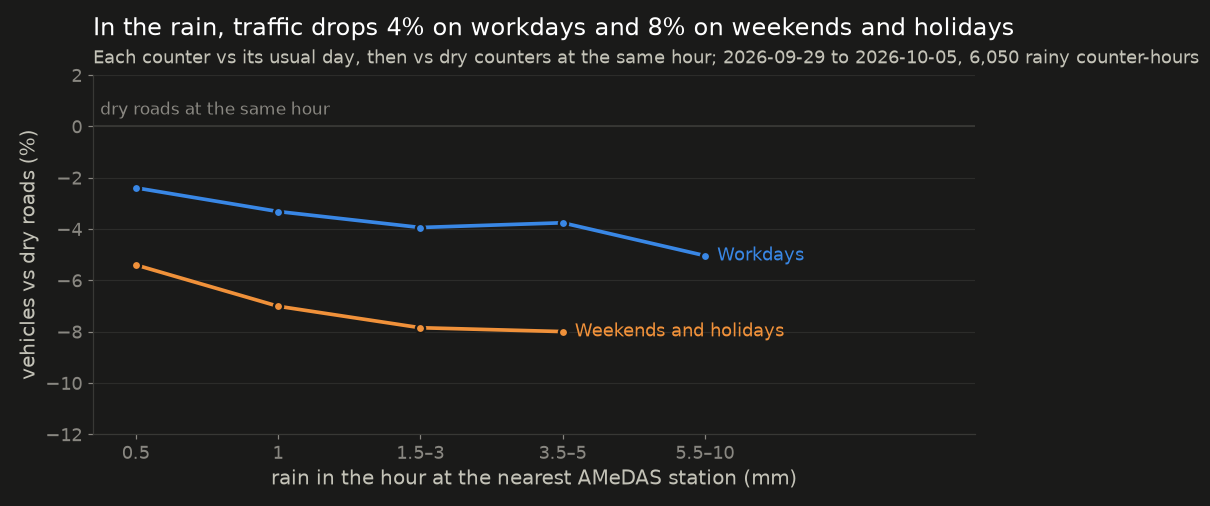
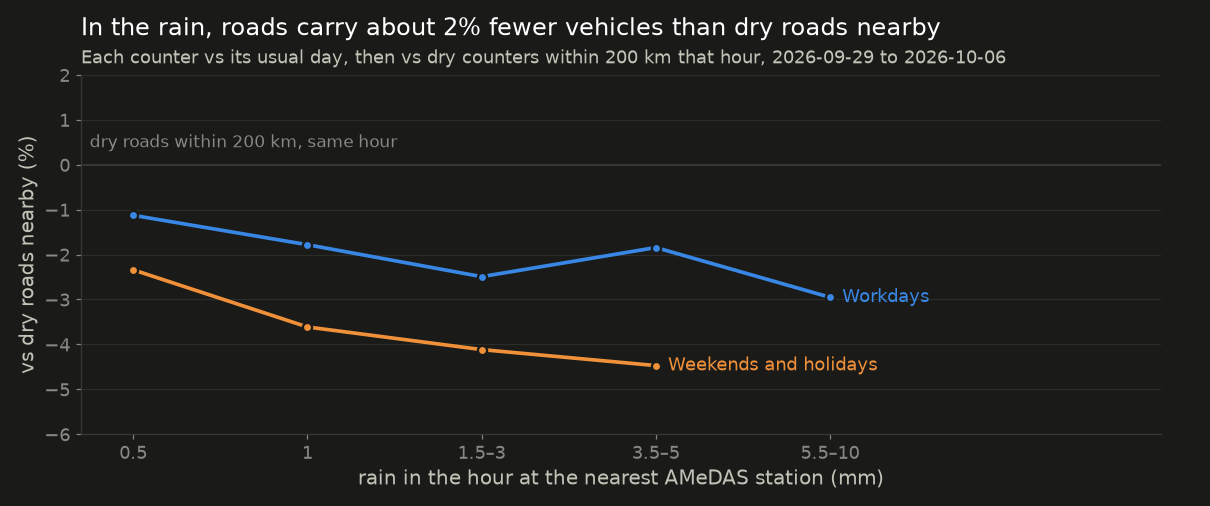
Rain: compare with dry roads nearby, not all of Japan
Review finding, checked: against a national dry median the rainy region's other differences that day
doubled the drop, and the weekend figure rests almost entirely on one Sunday (Oct 4). rel now uses
the dry counters within 200 km at the same hour: about 2.5% fewer vehicles in the rain (workdays 2.2%,
weekends 4.0% on 2 days). The title states only the pooled drop and the README says the weekend
difference is not established. publish.yml: a failed download only warns, so the monthly GIFs still
draw. Guards for an empty day, an all-empty line and the y range.

Claude-Session: https://claude.ai/code/session_01Q9mh2nKLEeW5VFF7pnBAXH

diff --git a/scripts/rain.py b/scripts/rain.py
@@ -8,9 +8,10 @@ Each permanent counter takes the rain of its nearest AMeDAS station within 10 km
 only values with the normal quality flag). A counter's hour is compared with its usual: the median of the same
 counter, hour and kind of day (workday, or weekend and holiday) over the days outside the holiday periods (at least
 five days, median at least 20 vehicles). Rain falls on some days more than others and on some regions more than
-others, so a rainy counter is compared with the dry counters of the same hour: rel = (vehicles / usual) / (median of
-vehicles / usual over the counters with no rain that hour). rel below 1 means fewer vehicles than the dry counters
-had at the same time.
+others, so a rainy counter is compared with the dry counters near it at the same hour: rel = (vehicles / usual) /
+(median of vehicles / usual over the counters with no rain within 200 km that hour, at least 10 of them). rel below 1
+means fewer vehicles than the dry roads nearby had at the same time. A national dry reference instead would mix in
+whatever the rainy region does differently that day (measured on the first week: it doubled the weekend drop).
 
   rain_effect_<theme>.png  median rel by the rain in the hour, workdays and weekends/holidays
   rain_day.gif             the day with the most rainy counter-hours: rain as blue light at the stations, counters
@@ -27,6 +28,8 @@ sys.path.insert(0, os.path.dirname(__file__))
 import animate, figures
 
 NEAR_KM = 10
+DRY_KM = 200         # dry counters this close to a rainy one form its reference
+MIN_DRY = 10
 WET = 1.0            # mm in the hour that counts as rain for the headline numbers
 MIN_HOURS = 100      # counter-hours a rain class needs to be drawn
 BINS = [(0.5, 0.5, "0.5"), (1.0, 1.0, "1"), (1.5, 3.0, "1.5–3"), (3.5, 5.0, "3.5–5"), (5.5, 10.0, "5.5–10"),
@@ -43,11 +46,31 @@ def usual(h):
     return u[(u["size"] >= 5) & (u["median"] >= 20)]["median"].rename("usual")
 
 
-def nearest(counters, stations):
-    la1, lo1 = np.radians(counters.latitude.values)[:, None], np.radians(counters.longitude.values)[:, None]
-    la2, lo2 = np.radians(stations.lat.values)[None, :], np.radians(stations.lon.values)[None, :]
+def km_matrix(lat1, lon1, lat2, lon2):
+    la1, lo1 = np.radians(np.asarray(lat1))[:, None], np.radians(np.asarray(lon1))[:, None]
+    la2, lo2 = np.radians(np.asarray(lat2))[None, :], np.radians(np.asarray(lon2))[None, :]
     a = np.sin((la2 - la1) / 2) ** 2 + np.cos(la1) * np.cos(la2) * np.sin((lo2 - lo1) / 2) ** 2
-    d = 6371 * 2 * np.arcsin(np.sqrt(a))
+    return 6371 * 2 * np.arcsin(np.sqrt(a))
+
+
+def local_rel(x):
+    """ratio of each counter-hour with rain ÷ the median ratio of the dry counters within DRY_KM that hour;
+    NaN for dry hours and where fewer than MIN_DRY dry counters are near"""
+    rel = pd.Series(np.nan, index=x.index)
+    for t, g in x.groupby("time_jst"):
+        wet, dry = g[g.precip_1h_mm > 0], g[g.precip_1h_mm == 0]
+        if wet.empty or len(dry) < MIN_DRY:
+            continue
+        near = km_matrix(wet.latitude, wet.longitude, dry.latitude, dry.longitude) <= DRY_KM
+        dr = dry.ratio.values
+        for idx, row, r in zip(wet.index, near, wet.ratio.values):
+            if row.sum() >= MIN_DRY:
+                rel[idx] = r / np.median(dr[row])
+    return rel
+
+
+def nearest(counters, stations):
+    d = km_matrix(counters.latitude, counters.longitude, stations.lat, stations.lon)
     out = counters[["counter_id", "sensor", "longitude", "latitude"]].copy()
     out["station_id"] = stations.station_id.values[d.argmin(1)]
     out["km"] = d.min(1)
@@ -80,10 +103,8 @@ def main():
     x = h[h.time_jst.between(w.time_jst.min(), w.time_jst.max())].merge(near, on=["counter_id", "sensor"])
     x = x.merge(w, on=["time_jst", "station_id"])
     x["ratio"] = x.vehicles / x.usual
-    dry = x[x.precip_1h_mm == 0].groupby("time_jst").ratio.agg(["median", "size"])
-    dry = dry[dry["size"] >= 100]["median"].rename("dry")
-    x = x.join(dry, on="time_jst", how="inner")
-    x["rel"] = x.ratio / x.dry
+    x["rel"] = local_rel(x)
+    x = x[x.rel.notna()]
     wet = x[x.precip_1h_mm >= WET]
     days = x.time_jst.dt.normalize().nunique()
     span = f"{x.time_jst.min():%Y-%m-%d} to {x.time_jst.max():%Y-%m-%d}"
@@ -104,13 +125,16 @@ def main():
     tab = tab[tab.rain.map(keep)]
     names = list(dict.fromkeys(tab.rain))
     print(tab.to_string(index=False))
-    head = {k: (wet[wet.workday == (k == "Workdays")].rel.median() - 1) * 100 for k in ("Workdays", "Weekends and holidays")}
-    a, b = head["Workdays"], head["Weekends and holidays"]
-    if a < 0 and b < 0:
-        main_title = (f"In the rain, traffic drops {-a:.0f}% on workdays and {-b:.0f}% on weekends and holidays"
-                      if round(a) != round(b) else f"In the rain, traffic drops {-a:.0f}%")
+    # the title states only the pooled drop: workdays and weekends rest on very different numbers of rainy days
+    pooled = (wet.rel.median() - 1) * 100
+    wet_days = wet.time_jst.dt.normalize().nunique()
+    print(f"pooled {pooled:+.2f}% over {wet_days} days with rain; workdays "
+          f"{(wet[wet.workday].rel.median() - 1) * 100:+.2f}%, weekends and holidays "
+          f"{(wet[~wet.workday].rel.median() - 1) * 100:+.2f}% on {wet[~wet.workday].time_jst.dt.normalize().nunique()} days")
+    if round(pooled) < 0:
+        main_title = f"In the rain, roads carry about {-pooled:.0f}% fewer vehicles than dry roads nearby"
     else:
-        main_title = "Traffic in the rain compared with dry roads at the same hour"
+        main_title = "Traffic in the rain compared with dry roads nearby at the same hour"
     for name, t in figures.THEMES.items():
         fig, ax = figures.figure(t, 11, 4.6)
         ax.axhline(0, color=t["base"], linewidth=1.2)
@@ -119,19 +143,20 @@ def main():
             xs = np.arange(len(g))
             ax.plot(xs, g.pct.values, color=colors[kind], linewidth=2.4, marker="o", markersize=6,
                     markeredgecolor=t["surface"], markeredgewidth=1.5)
+            if not np.isfinite(g.pct.values).any():
+                continue
             last = int(np.nanargmax(np.where(np.isfinite(g.pct.values), xs, -1)))
             ax.annotate(kind, (last, g.pct.values[last]), xytext=(8, 0), textcoords="offset points",
                         color=colors[kind], fontsize=12, va="center")
         ax.set_xticks(range(len(names)), names)
         ax.set_xlim(-0.3, len(names) - 1 + 1.9)
         ax.set_xlabel("rain in the hour at the nearest AMeDAS station (mm)", color=t["ink2"], fontsize=13)
-        ax.set_ylabel("vehicles vs dry roads (%)", color=t["ink2"], fontsize=13)
-        lo = min(-12, np.nanmin(tab.pct) - 2)
-        ax.set_ylim(lo, 2)
-        ax.text(-0.25, 0.3, "dry roads at the same hour", color=t["muted"], fontsize=11, va="bottom")
+        ax.set_ylabel("vs dry roads nearby (%)", color=t["ink2"], fontsize=13)
+        lo = min(-6, np.nanmin(tab.pct) - 1.5)
+        ax.set_ylim(lo, max(2, np.nanmax(tab.pct) + 1))
+        ax.text(-0.25, 0.3, f"dry roads within {DRY_KM} km, same hour", color=t["muted"], fontsize=11, va="bottom")
         figures.title(fig, ax, t, main_title,
-                      f"Each counter vs its usual day, then vs dry counters at the same hour; {span}, "
-                      f"{len(wet):,} rainy counter-hours")
+                      f"Each counter vs its usual day, then vs dry counters within {DRY_KM} km that hour, {span}")
         fig.tight_layout()
         fig.savefig(os.path.join(out, f"rain_effect_{name}.png"), dpi=110, facecolor=t["surface"])
         plt.close(fig)
@@ -140,7 +165,10 @@ def main():
     # the day with the most rainy counter-hours among the days with all 24 maps
     full = w.groupby(w.time_jst.dt.normalize()).time_jst.nunique()
     counts = wet.time_jst.dt.normalize().value_counts()
-    day = counts[counts.index.isin(full[full == 24].index)].idxmax()
+    counts = counts[counts.index.isin(full[full == 24].index)]
+    if counts.empty:
+        sys.exit("no day with all 24 maps has rain; the animated map is not drawn")
+    day = counts.idxmax()
     rings = json.load(open(land))["rings"]
     m = animate.Map((128.5, 146.2, 30.8, 45.8), 900, 1040, 130, 120, rings)
     hours = pd.date_range(day, day + pd.Timedelta(hours=23), freq="1h")

diff --git a/README.md b/README.md
@@ -58,10 +58,10 @@ The same for the September 2026 holidays (Silver Week).
 
 <picture>
   <source media="(prefers-color-scheme: dark)" srcset="docs/figures/rain_effect_dark.png">
-  <img src="docs/figures/rain_effect_light.png" alt="Line chart: counters in the rain carry fewer vehicles than dry counters at the same hour, more so on weekends and holidays and in heavier rain">
+  <img src="docs/figures/rain_effect_light.png" alt="Line chart: counters in the rain carry a few percent fewer vehicles than dry roads nearby at the same hour, by the amount of rain">
 </picture>
 
-Traffic in the rain (`scripts/rain.py`, with the AMeDAS observations below): each permanent counter takes the rain of its nearest AMeDAS station within 10 km, and is compared first with its usual for that hour and kind of day, then with the dry counters of the same hour, so that what the whole country does that hour cancels out. At the first drawing, with 1 mm or more in the hour, counters carried 4% fewer vehicles than dry roads on workdays and 8% fewer on weekends and holidays; the drop is smallest in the lightest rain (0.5 mm). That drawing rests on the first week of weather (2026-09-29 to 10-05, one weekend, 6,050 rainy counter-hours); the chart is redrawn every ten days as the record grows.
+Traffic in the rain (`scripts/rain.py`, with the AMeDAS observations below): each permanent counter takes the rain of its nearest AMeDAS station within 10 km, and is compared first with its usual for that hour and kind of day, then with the dry counters within 200 km at the same hour, so that what the region does that hour cancels out. At the first drawing (2026-09-29 to 10-06, 5,918 counter-hours with 1 mm or more), counters in the rain carried about 2.5% fewer vehicles than dry roads nearby. The drop looks larger on weekends and holidays (about 4%, against 2% on workdays), but almost all of those rainy weekend hours fall on one Sunday (October 4), so that difference is not established yet. Compared with all dry roads in Japan instead of nearby ones the drop doubles, because the rainy region differs from the rest of the country in other ways that day. The chart is redrawn every ten days as the record grows.
 
 <img src="docs/figures/rain_day.gif" alt="Animated map of the rainiest full day in the record, hour by hour: blue rain moves across Japan and the counters under it mostly show fewer vehicles than dry roads">
 
